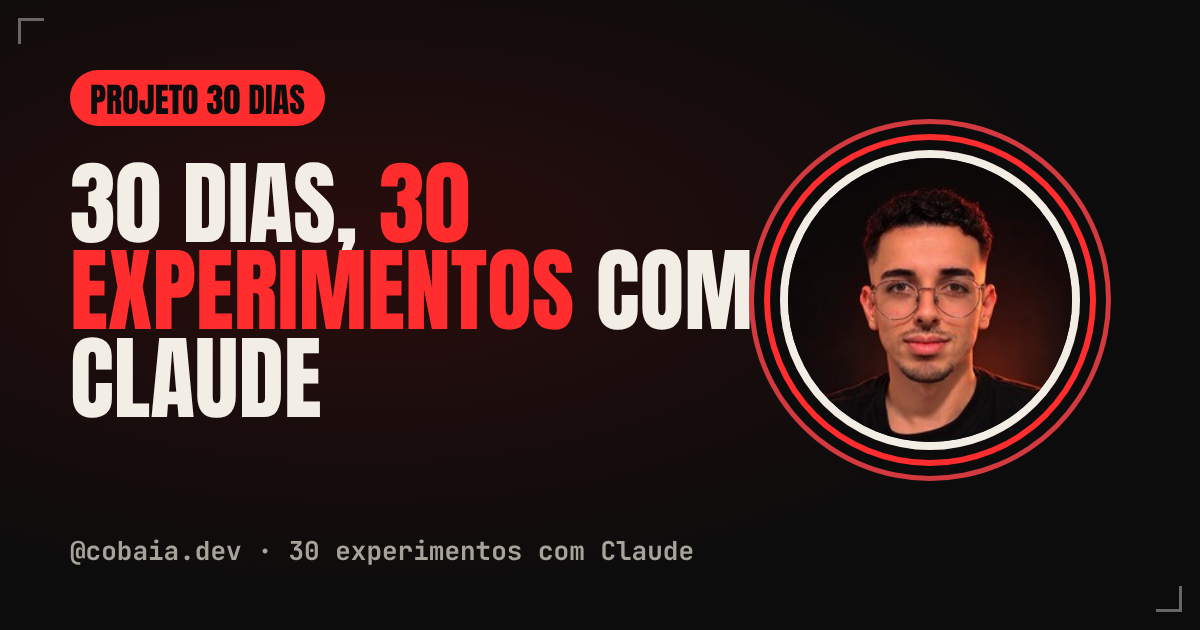
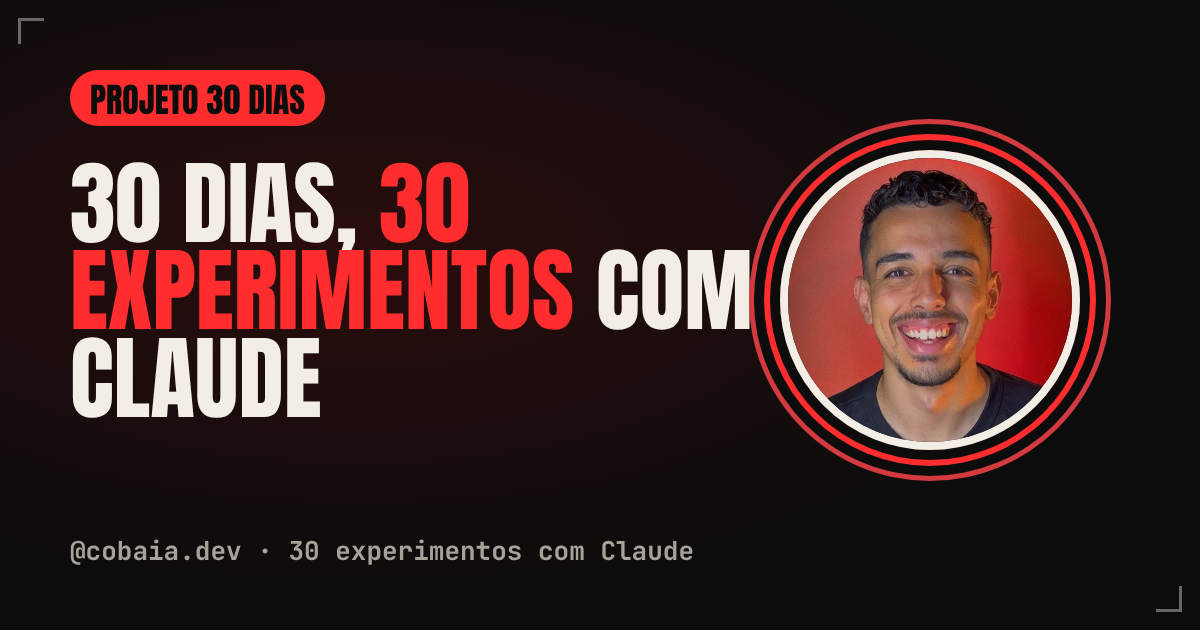
Foto de perfil nova e contagem no topo da /notebook (#36)
* Notebook Ressuscitado: landing nova em /notebook, guia pago por fases e venda pela Kiwify

- /notebook vira landing de vendas (guia R$ 37,90 e suporte R$ 97,90 até 30/11)
- /notebook/guia: 44 telas em 8 fases, trilhas Leve (Xfce) e Mac (KDE Plasma)
- produtos notebook e notebook-suporte; 10 primeiros do suporte levam o guia
- /api/vagas, botão de WhatsApp na área do suporte

Claude-Session: https://claude.ai/code/session_018kX4KQYKFVyteA3d2GckNv

* Notebook: página de vendas v2 com vídeos reais, suporte reaproveitado com botão do WhatsApp

Claude-Session: https://claude.ai/code/session_018kX4KQYKFVyteA3d2GckNv

* Notebook: preço em parcelas, notebook novo riscado e depois do guia, link do suporte

Claude-Session: https://claude.ai/code/session_018kX4KQYKFVyteA3d2GckNv

* Notebook: checkout do guia e nome do produto sem a ferramenta

Claude-Session: https://claude.ai/code/session_018kX4KQYKFVyteA3d2GckNv

* Notebook: suporte do notebook vira produto próprio (notebook-suporte)

Claude-Session: https://claude.ai/code/session_018kX4KQYKFVyteA3d2GckNv

* Notebook: páginas de obrigado do guia e do suporte com WhatsApp

Claude-Session: https://claude.ai/code/session_018kX4KQYKFVyteA3d2GckNv

* Notebook: parcelas reais do checkout (guia 3x 13,53, suporte 12x 10,13)

Claude-Session: https://claude.ai/code/session_018kX4KQYKFVyteA3d2GckNv

* Notebook: views reais (600 mil, 23 mil comentários) e medidor ao vivo da página
[…]

Changed region(s): [[0.6475, 0.2413, 0.8942, 0.7238]]

diff --git a/30-dias/index.html b/30-dias/index.html
@@ -22,7 +22,7 @@
 <body>
 <div class="bg" aria-hidden="true"><i></i><i></i><i></i></div>
 <header class="top"><div class="bar glass">
-  <a class="brand" href="../30-dias/"><span class="pf"><img src="../assets/img/avatar.jpg" alt="" width="34" height="34"></span><span>@cobaia.dev</span></a>
+  <a class="brand" href="../30-dias/"><span class="pf"><img src="../assets/img/luis.jpg" alt="" width="34" height="34"></span><span>@cobaia.dev</span></a>
   <div class="bar-r"><div class="bar-soc"><a class="soc" href="https://www.tiktok.com/@cobaia.dev" target="_blank" rel="noopener" aria-label="TikTok"><svg class="ico" viewBox="0 0 24 24" fill="currentColor" aria-hidden="true"><path d="M16.6 5.82A4.28 4.28 0 0 1 15.54 3h-3.09v12.4a2.59 2.59 0 0 1-2.59 2.5c-1.42 0-2.6-1.16-2.6-2.6 0-1.72 1.66-3.01 3.37-2.48V9.66c-3.45-.46-6.47 2.22-6.47 5.64 0 3.33 2.76 5.7 5.69 5.7 3.14 0 5.69-2.55 5.69-5.7V9.01a7.35 7.35 0 0 0 4.3 1.38V7.3s-1.88.09-3.24-1.48z"/></svg></a><a class="soc" href="https://www.youtube.com/@cobaia.dev1" target="_blank" rel="noopener" aria-label="YouTube"><svg class="ico" viewBox="0 0 24 24" fill="currentColor" aria-hidden="true"><path d="M21.6 7.2a2.5 2.5 0 0 0-1.76-1.77C18.27 5 12 5 12 5s-6.27 0-7.84.43A2.5 2.5 0 0 0 2.4 7.2 26 26 0 0 0 2 12a26 26 0 0 0 .4 4.8 2.5 2.5 0 0 0 1.76 1.77C5.73 19 12 19 12 19s6.27 0 7.84-.43a2.5 2.5 0 0 0 1.76-1.77A26 26 0 0 0 22 12a26 26 0 0 0-.4-4.8zM10 15V9l5.2 3L10 15z"/></svg></a></div><button class="cal-btn" type="button" data-open-cal aria-haspopup="dialog" aria-controls="cal"><i class="dot"></i>30 dias</button></div>
 </div></header>
 <main class="wrap">
@@ -60,7 +60,7 @@
   <p class="note"><span data-done>13</span> de 30 liberados</p>
 <div class="grid30"><a class="dcard glass rv" href="../dia-01/" data-lock-day="1"><div class="im"><img src="../assets/img/capa-dia01.jpg" alt="Capa do vídeo do Dia 1" loading="lazy" width="540" height="960"></div><div class="b"><span class="n" data-when="DIA 01 · libera às 12h">DIA 01</span><span class="t">Ninguém editou esse vídeo</span></div></a><a class="dcard glass rv" href="../jogo/" data-lock-day="2"><span class="k">JOGO</span><div class="im"><img src="../assets/img/capa-dia02.jpg" alt="Capa do vídeo do Dia 2" loading="lazy" width="540" height="960"></div><div class="b"><span class="n" data-when="DIA 02 · libera às 12h">DIA 02</span><span class="t">Um jogo sem código</span></div></a><a class="dcard glass rv" href="../skill/" data-lock-day="3"><span class="k">SKILL</span><div class="im"><img src="../assets/img/capa-dia03.jpg" alt="Capa do vídeo do Dia 3" loading="lazy" width="540" height="960"></div><div class="b"><span class="n" data-when="DIA 03 · libera às 12h">DIA 03</span><span class="t">Skill é a receita da vó</span></div></a><a class="dcard glass rv" href="../limpar/" data-lock-day="4"><span class="k">LIMPAR</span><div class="im"><img src="../assets/img/capa-dia04.jpg" alt="Capa do vídeo do Dia 4" loading="lazy" width="540" height="960"></div><div class="b"><span class="n" data-when="DIA 04 · libera às 12h">DIA 04</span><span class="t">19 mil e-mails limpos</span></div></a><a class="dcard glass rv" href="../mcp/" data-lock-day="5"><span class="k">MCP</span><div class="im"><img src="../assets/img/capa-dia05.jpg" alt="Capa do vídeo do Dia 5" loading="lazy" width="540" height="960"></div><div class="b"><span class="n" data-when="DIA 05 · libera às 12h">DIA 05</span><span class="t">O Claude montou meu post no Canva</span></div></a><a class="dcard glass rv" href="../professor/" data-lock-day="9"><span class="k">PROFESSOR</span><div class="im"><img src="../assets/img/capa-dia09.jpg" alt="Capa do vídeo do Dia 9" loading="lazy" width="540" height="960"></div><div class="b"><span class="n" data-when="DIA 09 · libera às 12h">DIA 09</span><span class="t">O Claude virou meu professor particular</span></div></a><a class="dcard glass rv" href="../wifi/" data-lock-day="10"><span class="k">WIFI</span><div class="im"><img src="../assets/img/capa-dia10.jpg" alt="Capa do vídeo do Dia 10" loading="lazy" width="540" height="960"></div><div class="b"><span class="n" data-when="DIA 10 · libera às 12h">DIA 10</span><span class="t">O Claude achou o ladrão do meu Wi-Fi</span></div></a><a class="dcard glass rv" href="../gta/" data-lock-day="11"><span class="k">GTA</span><div class="im"><img src="../assets/img/capa-dia11.jpg" alt="Capa do vídeo do Dia 11" loading="lazy" width="540" height="960"></div><div class="b"><span class="n" data-when="DIA 11 · libera às 12h">DIA 11</span><span class="t">Uma live de GTA VI vira 5 cortes</span></div></a><a class="dcard glass rv" href="../omniroute/" data-lock-day="12"><span class="k">CLAUDE</span><div class="im"><img src="../assets/img/capa-dia12.jpg" alt="Capa do vídeo do Dia 12" loading="lazy" width="540" height="960"></div><div class="b"><span class="n" data-when="DIA 12 · libera às 12h">DIA 12</span><span class="t">O Claude Code ligado em 352 IAs</span></div></a><a class="dcard glass rv" href="../humano/" data-lock-day="13"><span class="k">HUMANO</span><div class="im"><img src="../assets/img/capa-dia13.jpg" alt="Capa do vídeo do Dia 13" loading="lazy" width="540" height="960"></div><div class="b"><span class="n" data-when="DIA 13 · libera às 12h">DIA 13</span><span class="t">O Claude escreve sem cara de IA</span></div></a><a class="dcard glass rv" href="../planilha/" data-lock-day="14"><span class="k">PLANILHA</span><div class="im"><img src="../assets/img/capa-dia14.jpg" alt="Capa do vídeo do Dia 14" loading="lazy" width="540" height="960"></div><div class="b"><span class="n" data-when="DIA 14 · libera às 12h">DIA 14</span><span class="t">O Claude mostrou pra onde vai o salário</span></div></a></div></section>
 <div class="cta rv">
-  <span class="pf"><img src="../assets/img/avatar.jpg" alt="Foto de perfil do @cobaia.dev" width="96" height="96"></span>
+  <span class="pf"><img src="../assets/img/luis.jpg" alt="Foto de perfil do @cobaia.dev" width="96" height="96"></span>
   <h2>30 dias, <em>30 experimentos</em></h2>
   <p class="lede">Eu testo antes de você. Segue pra não perder o próximo.</p>
   <a class="stamp" href="https://www.instagram.com/cobaia.dev/" target="_blank" rel="noopener">@COBAIA.DEV</a>

diff --git a/jogo/index.html b/jogo/index.html
@@ -22,7 +22,7 @@
 <body>
 <div class="bg" aria-hidden="true"><i></i><i></i><i></i></div>
 <header class="top"><div class="bar glass">
-  <a class="brand" href="../30-dias/"><span class="pf"><img src="../assets/img/avatar.jpg" alt="" width="34" height="34"></span><span>@cobaia.dev</span></a>
+  <a class="brand" href="../30-dias/"><span class="pf"><img src="../assets/img/luis.jpg" alt="" width="34" height="34"></span><span>@cobaia.dev</span></a>
   <div class="bar-r"><div class="bar-soc"><a class="soc" href="https://www.tiktok.com/@cobaia.dev" target="_blank" rel="noopener" aria-label="TikTok"><svg class="ico" viewBox="0 0 24 24" fill="currentColor" aria-hidden="true"><path d="M16.6 5.82A4.28 4.28 0 0 1 15.54 3h-3.09v12.4a2.59 2.59 0 0 1-2.59 2.5c-1.42 0-2.6-1.16-2.6-2.6 0-1.72 1.66-3.01 3.37-2.48V9.66c-3.45-.46-6.47 2.22-6.47 5.64 0 3.33 2.76 5.7 5.69 5.7 3.14 0 5.69-2.55 5.69-5.7V9.01a7.35 7.35 0 0 0 4.3 1.38V7.3s-1.88.09-3.24-1.48z"/></svg></a><a class="soc" href="https://www.youtube.com/@cobaia.dev1" target="_blank" rel="noopener" aria-label="YouTube"><svg class="ico" viewBox="0 0 24 24" fill="currentColor" aria-hidden="true"><path d="M21.6 7.2a2.5 2.5 0 0 0-1.76-1.77C18.27 5 12 5 12 5s-6.27 0-7.84.43A2.5 2.5 0 0 0 2.4 7.2 26 26 0 0 0 2 12a26 26 0 0 0 .4 4.8 2.5 2.5 0 0 0 1.76 1.77C5.73 19 12 19 12 19s6.27 0 7.84-.43a2.5 2.5 0 0 0 1.76-1.77A26 26 0 0 0 22 12a26 26 0 0 0-.4-4.8zM10 15V9l5.2 3L10 15z"/></svg></a></div><button class="cal-btn" type="button" data-open-cal aria-haspopup="dialog" aria-controls="cal"><i class="dot"></i>30 dias</button></div>
 </div></header>
 <main class="wrap">
@@ -151,7 +151,7 @@ p.addEventListener('input',upd);o.addEventListener('input',upd);
 document.querySelectorAll('.chips button').forEach(function(b){b.addEventListener('click',function(){p.value=b.getAttribute('data-p');o.value=b.getAttribute('data-o');upd()})});})();
 </script>
 <section class="rv" aria-labelledby="nx"><p class="eyebrow">continua a série</p><h2 id="nx">Os outros experimentos</h2><div class="next"><a class="card glass" href="../dia-01/"><span class="d">← DIA 01</span><div class="t">Ninguém editou esse vídeo</div><p>Como o Claude editou um vídeo inteiro a partir de um áudio cru: cortes, cenas, legenda, música e efeitos.</p></a><a class="card glass red" href="../skill/" data-lock-day="3"><span class="d" data-when="DIA 03 · libera às 12h">DIA 03 · palavra SKILL →</span><div class="t">Skill é a receita da vó</div><p>O manual pra criar a sua primeira skill no Claude e ensinar uma tarefa do seu jeito.</p></a></div></section><div class="cta rv">
-  <span class="pf"><img src="../assets/img/avatar.jpg" alt="Foto de perfil do @cobaia.dev" width="96" height="96"></span>
+  <span class="pf"><img src="../assets/img/luis.jpg" alt="Foto de perfil do @cobaia.dev" width="96" height="96"></span>
   <h2>30 dias, <em>30 experimentos</em></h2>
   <p class="lede">Eu testo antes de você. Segue pra não perder o próximo.</p>
   <a class="stamp" href="https://www.instagram.com/cobaia.dev/" target="_blank" rel="noopener">@COBAIA.DEV</a>

diff --git a/humano/index.html b/humano/index.html
@@ -22,7 +22,7 @@
 <body>
 <div class="bg" aria-hidden="true"><i></i><i></i><i></i></div>
 <header class="top"><div class="bar glass">
-  <a class="brand" href="../30-dias/"><span class="pf"><img src="../assets/img/avatar.jpg" alt="" width="34" height="34"></span><span>@cobaia.dev</span></a>
+  <a class="brand" href="../30-dias/"><span class="pf"><img src="../assets/img/luis.jpg" alt="" width="34" height="34"></span><span>@cobaia.dev</span></a>
   <div class="bar-r"><div class="bar-soc"><a class="soc" href="https://www.tiktok.com/@cobaia.dev" target="_blank" rel="noopener" aria-label="TikTok"><svg class="ico" viewBox="0 0 24 24" fill="currentColor" aria-hidden="true"><path d="M16.6 5.82A4.28 4.28 0 0 1 15.54 3h-3.09v12.4a2.59 2.59 0 0 1-2.59 2.5c-1.42 0-2.6-1.16-2.6-2.6 0-1.72 1.66-3.01 3.37-2.48V9.66c-3.45-.46-6.47 2.22-6.47 5.64 0 3.33 2.76 5.7 5.69 5.7 3.14 0 5.69-2.55 5.69-5.7V9.01a7.35 7.35 0 0 0 4.3 1.38V7.3s-1.88.09-3.24-1.48z"/></svg></a><a class="soc" href="https://www.youtube.com/@cobaia.dev1" target="_blank" rel="noopener" aria-label="YouTube"><svg class="ico" viewBox="0 0 24 24" fill="currentColor" aria-hidden="true"><path d="M21.6 7.2a2.5 2.5 0 0 0-1.76-1.77C18.27 5 12 5 12 5s-6.27 0-7.84.43A2.5 2.5 0 0 0 2.4 7.2 26 26 0 0 0 2 12a26 26 0 0 0 .4 4.8 2.5 2.5 0 0 0 1.76 1.77C5.73 19 12 19 12 19s6.27 0 7.84-.43a2.5 2.5 0 0 0 1.76-1.77A26 26 0 0 0 22 12a26 26 0 0 0-.4-4.8zM10 15V9l5.2 3L10 15z"/></svg></a></div><button class="cal-btn" type="button" data-open-cal aria-haspopup="dialog" aria-controls="cal"><i class="dot"></i>30 dias</button></div>
 </div></header>
 <main class="wrap">
@@ -320,7 +320,7 @@ CONSCIÊNCIA DE CONTEXTO HUMANO: quando fizer sentido, reconheça a situação o
   </div>
 </section>
 <section class="rv" aria-labelledby="nx"><p class="eyebrow">continua a série</p><h2 id="nx">Os outros experimentos</h2><div class="next"><a class="card glass" href="../omniroute/"><span class="d">← DIA 12 · palavra CLAUDE</span><div class="t">O Claude Code ligado em 352 IAs</div><p>O guia gratuito do OmniRoute: instalar do zero, ligar as IAs grátis no Claude Code e os limites que ninguém te conta.</p></a><a class="card glass red" href="../planilha/" data-lock-day="14"><span class="d" data-when="DIA 14 · libera às 12h">DIA 14 · palavra PLANILHA →</span><div class="t">O Claude mostrou pra onde vai o salário</div><p>O pedido exato pra transformar a fatura do cartão numa planilha com gastos por categoria, plano pra sair das dívidas, reserva de emergência e as assinaturas esquecidas.</p></a></div></section><div class="cta rv">
-  <span class="pf"><img src="../assets/img/avatar.jpg" alt="Foto de perfil do @cobaia.dev" width="96" height="96"></span>
+  <span class="pf"><img src="../assets/img/luis.jpg" alt="Foto de perfil do @cobaia.dev" width="96" height="96"></span>
   <h2>30 dias, <em>30 experimentos</em></h2>
   <p class="lede">Eu testo antes de você. Segue pra não perder o próximo.</p>
   <a class="stamp" href="https://www.instagram.com/cobaia.dev/" target="_blank" rel="noopener">@COBAIA.DEV</a>

diff --git a/skill/index.html b/skill/index.html
@@ -22,7 +22,7 @@
 <body>
 <div class="bg" aria-hidden="true"><i></i><i></i><i></i></div>
 <header class="top"><div class="bar glass">
-  <a class="brand" href="../30-dias/"><span class="pf"><img src="../assets/img/avatar.jpg" alt="" width="34" height="34"></span><span>@cobaia.dev</span></a>
+  <a class="brand" href="../30-dias/"><span class="pf"><img src="../assets/img/luis.jpg" alt="" width="34" height="34"></span><span>@cobaia.dev</span></a>
   <div class="bar-r"><div class="bar-soc"><a class="soc" href="https://www.tiktok.com/@cobaia.dev" target="_blank" rel="noopener" aria-label="TikTok"><svg class="ico" viewBox="0 0 24 24" fill="currentColor" aria-hidden="true"><path d="M16.6 5.82A4.28 4.28 0 0 1 15.54 3h-3.09v12.4a2.59 2.59 0 0 1-2.59 2.5c-1.42 0-2.6-1.16-2.6-2.6 0-1.72 1.66-3.01 3.37-2.48V9.66c-3.45-.46-6.47 2.22-6.47 5.64 0 3.33 2.76 5.7 5.69 5.7 3.14 0 5.69-2.55 5.69-5.7V9.01a7.35 7.35 0 0 0 4.3 1.38V7.3s-1.88.09-3.24-1.48z"/></svg></a><a class="soc" href="https://www.youtube.com/@cobaia.dev1" target="_blank" rel="noopener" aria-label="YouTube"><svg class="ico" viewBox="0 0 24 24" fill="currentColor" aria-hidden="true"><path d="M21.6 7.2a2.5 2.5 0 0 0-1.76-1.77C18.27 5 12 5 12 5s-6.27 0-7.84.43A2.5 2.5 0 0 0 2.4 7.2 26 26 0 0 0 2 12a26 26 0 0 0 .4 4.8 2.5 2.5 0 0 0 1.76 1.77C5.73 19 12 19 12 19s6.27 0 7.84-.43a2.5 2.5 0 0 0 1.76-1.77A26 26 0 0 0 22 12a26 26 0 0 0-.4-4.8zM10 15V9l5.2 3L10 15z"/></svg></a></div><button class="cal-btn" type="button" data-open-cal aria-haspopup="dialog" aria-controls="cal"><i class="dot"></i>30 dias</button></div>
 </div></header>
 <main class="wrap">
@@ -140,7 +140,7 @@ bs.forEach(function(o){o.setAttribute('aria-pressed',o===b?'true':'false')});
 sh.querySelectorAll('.rec').forEach(function(r){r.classList.toggle('on',r.getAttribute('data-k')===k)});cap.textContent=T[k];})});})();
 </script>
 <section class="rv" aria-labelledby="nx"><p class="eyebrow">continua a série</p><h2 id="nx">Os outros experimentos</h2><div class="next"><a class="card glass" href="../jogo/"><span class="d">← DIA 02 · palavra JOGO</span><div class="t">Um jogo sem código</div><p>Passo a passo grátis pra criar o seu primeiro jogo com o Claude, sem escrever uma linha de código.</p></a><a class="card glass red" href="../limpar/" data-lock-day="4"><span class="d" data-when="DIA 04 · libera às 12h">DIA 04 · palavra LIMPAR →</span><div class="t">19 mil e-mails limpos</div><p>Os dois prompts pra limpar a caixa de entrada e receber o resumo da noite com o Claude no Gmail e na Agenda.</p></a></div></section><div class="cta rv">
-  <span class="pf"><img src="../assets/img/avatar.jpg" alt="Foto de perfil do @cobaia.dev" width="96" height="96"></span>
+  <span class="pf"><img src="../assets/img/luis.jpg" alt="Foto de perfil do @cobaia.dev" width="96" height="96"></span>
   <h2>30 dias, <em>30 experimentos</em></h2>
   <p class="lede">Eu testo antes de você. Segue pra não perder o próximo.</p>
   <a class="stamp" href="https://www.instagram.com/cobaia.dev/" target="_blank" rel="noopener">@COBAIA.DEV</a>

diff --git a/professor/index.html b/professor/index.html
@@ -22,7 +22,7 @@
 <body>
 <div class="bg" aria-hidden="true"><i></i><i></i><i></i></div>
 <header class="top"><div class="bar glass">
-  <a class="brand" href="../30-dias/"><span class="pf"><img src="../assets/img/avatar.jpg" alt="" width="34" height="34"></span><span>@cobaia.dev</span></a>
+  <a class="brand" href="../30-dias/"><span class="pf"><img src="../assets/img/luis.jpg" alt="" width="34" height="34"></span><span>@cobaia.dev</span></a>
   <div class="bar-r"><div class="bar-soc"><a class="soc" href="https://www.tiktok.com/@cobaia.dev" target="_blank" rel="noopener" aria-label="TikTok"><svg class="ico" viewBox="0 0 24 24" fill="currentColor" aria-hidden="true"><path d="M16.6 5.82A4.28 4.28 0 0 1 15.54 3h-3.09v12.4a2.59 2.59 0 0 1-2.59 2.5c-1.42 0-2.6-1.16-2.6-2.6 0-1.72 1.66-3.01 3.37-2.48V9.66c-3.45-.46-6.47 2.22-6.47 5.64 0 3.33 2.76 5.7 5.69 5.7 3.14 0 5.69-2.55 5.69-5.7V9.01a7.35 7.35 0 0 0 4.3 1.38V7.3s-1.88.09-3.24-1.48z"/></svg></a><a class="soc" href="https://www.youtube.com/@cobaia.dev1" target="_blank" rel="noopener" aria-label="YouTube"><svg class="ico" viewBox="0 0 24 24" fill="currentColor" aria-hidden="true"><path d="M21.6 7.2a2.5 2.5 0 0 0-1.76-1.77C18.27 5 12 5 12 5s-6.27 0-7.84.43A2.5 2.5 0 0 0 2.4 7.2 26 26 0 0 0 2 12a26 26 0 0 0 .4 4.8 2.5 2.5 0 0 0 1.76 1.77C5.73 19 12 19 12 19s6.27 0 7.84-.43a2.5 2.5 0 0 0 1.76-1.77A26 26 0 0 0 22 12a26 26 0 0 0-.4-4.8zM10 15V9l5.2 3L10 15z"/></svg></a></div><button class="cal-btn" type="button" data-open-cal aria-haspopup="dialog" aria-controls="cal"><i class="dot"></i>30 dias</button></div>
 </div></header>
 <main class="wrap">
@@ -154,7 +154,7 @@
   </div>
 </section>
 <section class="rv" aria-labelledby="nx"><p class="eyebrow">continua a série</p><h2 id="nx">Os outros experimentos</h2><div class="next"><a class="card glass" href="../tablet/"><span class="d">← DIA 08 · palavra TABLET</span><div class="t">Ressuscitei um tablet abandonado</div><p>O mapa grátis pra ressuscitar o seu tablet velho e o passo a passo feito pro seu modelo, até o limite que ele aguenta.</p></a><a class="card glass red" href="../wifi/" data-lock-day="10"><span class="d" data-when="DIA 10 · libera às 12h">DIA 10 · palavra WIFI →</span><div class="t">O Claude achou o ladrão do meu Wi-Fi</div><p>O pedido exato pro Claude Code investigar o seu Wi-Fi lento (velocidade, consumo escondido e canal do vizinho) e o passo a passo pra corrigir.</p></a></div></section><div class="cta rv">
-  <span class="pf"><img src="../assets/img/avatar.jpg" alt="Foto de perfil do @cobaia.dev" width="96" height="96"></span>
+  <span class="pf"><img src="../assets/img/luis.jpg" alt="Foto de perfil do @cobaia.dev" width="96" height="96"></span>
   <h2>30 dias, <em>30 experimentos</em></h2>
   <p class="lede">Eu testo antes de você. Segue pra não perder o próximo.</p>
   <a class="stamp" href="https://www.instagram.com/cobaia.dev/" target="_blank" rel="noopener">@COBAIA.DEV</a>

diff --git a/mcp/index.html b/mcp/index.html
@@ -22,7 +22,7 @@
 <body>
 <div class="bg" aria-hidden="true"><i></i><i></i><i></i></div>
 <header class="top"><div class="bar glass">
-  <a class="brand" href="../30-dias/"><span class="pf"><img src="../assets/img/avatar.jpg" alt="" width="34" height="34"></span><span>@cobaia.dev</span></a>
+  <a class="brand" href="../30-dias/"><span class="pf"><img src="../assets/img/luis.jpg" alt="" width="34" height="34"></span><span>@cobaia.dev</span></a>
   <div class="bar-r"><div class="bar-soc"><a class="soc" href="https://www.tiktok.com/@cobaia.dev" target="_blank" rel="noopener" aria-label="TikTok"><svg class="ico" viewBox="0 0 24 24" fill="currentColor" aria-hidden="true"><path d="M16.6 5.82A4.28 4.28 0 0 1 15.54 3h-3.09v12.4a2.59 2.59 0 0 1-2.59 2.5c-1.42 0-2.6-1.16-2.6-2.6 0-1.72 1.66-3.01 3.37-2.48V9.66c-3.45-.46-6.47 2.22-6.47 5.64 0 3.33 2.76 5.7 5.69 5.7 3.14 0 5.69-2.55 5.69-5.7V9.01a7.35 7.35 0 0 0 4.3 1.38V7.3s-1.88.09-3.24-1.48z"/></svg></a><a class="soc" href="https://www.youtube.com/@cobaia.dev1" target="_blank" rel="noopener" aria-label="YouTube"><svg class="ico" viewBox="0 0 24 24" fill="currentColor" aria-hidden="true"><path d="M21.6 7.2a2.5 2.5 0 0 0-1.76-1.77C18.27 5 12 5 12 5s-6.27 0-7.84.43A2.5 2.5 0 0 0 2.4 7.2 26 26 0 0 0 2 12a26 26 0 0 0 .4 4.8 2.5 2.5 0 0 0 1.76 1.77C5.73 19 12 19 12 19s6.27 0 7.84-.43a2.5 2.5 0 0 0 1.76-1.77A26 26 0 0 0 22 12a26 26 0 0 0-.4-4.8zM10 15V9l5.2 3L10 15z"/></svg></a></div><button class="cal-btn" type="button" data-open-cal aria-haspopup="dialog" aria-controls="cal"><i class="dot"></i>30 dias</button></div>
 </div></header>
 <main class="wrap">
@@ -211,7 +211,7 @@
 })();
 </script>
 <section class="rv" aria-labelledby="nx"><p class="eyebrow">continua a série</p><h2 id="nx">Os outros experimentos</h2><div class="next"><a class="card glass" href="../limpar/"><span class="d">← DIA 04 · palavra LIMPAR</span><div class="t">19 mil e-mails limpos</div><p>Os dois prompts pra limpar a caixa de entrada e receber o resumo da noite com o Claude no Gmail e na Agenda.</p></a><a class="card glass red" href="../notebook/" data-lock-day="6"><span class="d" data-when="DIA 06 · libera às 12h">DIA 06 · palavra NOTEBOOK →</span><div class="t">Ressuscitei um notebook velho com o Claude</div><p>O guia pra reviver um notebook velho com um Debian 13, do pendrive à interface, com os comandos pra fazer à mão e os pedidos prontos pro Claude Code.</p></a></div></section><div class="cta rv">
-  <span class="pf"><img src="../assets/img/avatar.jpg" alt="Foto de perfil do @cobaia.dev" width="96" height="96"></span>
+  <span class="pf"><img src="../assets/img/luis.jpg" alt="Foto de perfil do @cobaia.dev" width="96" height="96"></span>
   <h2>30 dias, <em>30 experimentos</em></h2>
   <p class="lede">Eu testo antes de você. Segue pra não perder o próximo.</p>
   <a class="stamp" href="https://www.instagram.com/cobaia.dev/" target="_blank" rel="noopener">@COBAIA.DEV</a>

diff --git a/planilha/index.html b/planilha/index.html
@@ -22,7 +22,7 @@
 <body>
 <div class="bg" aria-hidden="true"><i></i><i></i><i></i></div>
 <header class="top"><div class="bar glass">
-  <a class="brand" href="../30-dias/"><span class="pf"><img src="../assets/img/avatar.jpg" alt="" width="34" height="34"></span><span>@cobaia.dev</span></a>
+  <a class="brand" href="../30-dias/"><span class="pf"><img src="../assets/img/luis.jpg" alt="" width="34" height="34"></span><span>@cobaia.dev</span></a>
   <div class="bar-r"><div class="bar-soc"><a class="soc" href="https://www.tiktok.com/@cobaia.dev" target="_blank" rel="noopener" aria-label="TikTok"><svg class="ico" viewBox="0 0 24 24" fill="currentColor" aria-hidden="true"><path d="M16.6 5.82A4.28 4.28 0 0 1 15.54 3h-3.09v12.4a2.59 2.59 0 0 1-2.59 2.5c-1.42 0-2.6-1.16-2.6-2.6 0-1.72 1.66-3.01 3.37-2.48V9.66c-3.45-.46-6.47 2.22-6.47 5.64 0 3.33 2.76 5.7 5.69 5.7 3.14 0 5.69-2.55 5.69-5.7V9.01a7.35 7.35 0 0 0 4.3 1.38V7.3s-1.88.09-3.24-1.48z"/></svg></a><a class="soc" href="https://www.youtube.com/@cobaia.dev1" target="_blank" rel="noopener" aria-label="YouTube"><svg class="ico" viewBox="0 0 24 24" fill="currentColor" aria-hidden="true"><path d="M21.6 7.2a2.5 2.5 0 0 0-1.76-1.77C18.27 5 12 5 12 5s-6.27 0-7.84.43A2.5 2.5 0 0 0 2.4 7.2 26 26 0 0 0 2 12a26 26 0 0 0 .4 4.8 2.5 2.5 0 0 0 1.76 1.77C5.73 19 12 19 12 19s6.27 0 7.84-.43a2.5 2.5 0 0 0 1.76-1.77A26 26 0 0 0 22 12a26 26 0 0 0-.4-4.8zM10 15V9l5.2 3L10 15z"/></svg></a></div><button class="cal-btn" type="button" data-open-cal aria-haspopup="dialog" aria-controls="cal"><i class="dot"></i>30 dias</button></div>
 </div></header>
 <main class="wrap">
@@ -142,7 +142,7 @@ No fim, me diga em 3 frases simples onde eu mais posso economizar.</pre></div>
   </div>
 </section>
 <section class="rv" aria-labelledby="nx"><p class="eyebrow">continua a série</p><h2 id="nx">Os outros experimentos</h2><div class="next"><a class="card glass" href="../humano/"><span class="d">← DIA 13 · palavra HUMANO</span><div class="t">O Claude escreve sem cara de IA</div><p>O guia gratuito do Anti-Robô: o pedido que levanta os padrões de texto de IA, a skill que guarda as regras e os pedidos prontos pra escrever como gente.</p></a><div class="card glass red locked"><span class="d">DIA 15 · em breve</span><div class="t">Próximo experimento</div><p>Sai às 12h. Segue o @cobaia.dev pra ver primeiro.</p></div></div></section><div class="cta rv">
-  <span class="pf"><img src="../assets/img/avatar.jpg" alt="Foto de perfil do @cobaia.dev" width="96" height="96"></span>
+  <span class="pf"><img src="../assets/img/luis.jpg" alt="Foto de perfil do @cobaia.dev" width="96" height="96"></span>
   <h2>30 dias, <em>30 experimentos</em></h2>
   <p class="lede">Eu testo antes de você. Segue pra não perder o próximo.</p>
   <a class="stamp" href="https://www.instagram.com/cobaia.dev/" target="_blank" rel="noopener">@COBAIA.DEV</a>

diff --git a/dia-01/index.html b/dia-01/index.html
@@ -22,7 +22,7 @@
 <body>
 <div class="bg" aria-hidden="true"><i></i><i></i><i></i></div>
 <header class="top"><div class="bar glass">
-  <a class="brand" href="../30-dias/"><span class="pf"><img src="../assets/img/avatar.jpg" alt="" width="34" height="34"></span><span>@cobaia.dev</span></a>
+  <a class="brand" href="../30-dias/"><span class="pf"><img src="../assets/img/luis.jpg" alt="" width="34" height="34"></span><span>@cobaia.dev</span></a>
   <div class="bar-r"><div class="bar-soc"><a class="soc" href="https://www.tiktok.com/@cobaia.dev" target="_blank" rel="noopener" aria-label="TikTok"><svg class="ico" viewBox="0 0 24 24" fill="currentColor" aria-hidden="true"><path d="M16.6 5.82A4.28 4.28 0 0 1 15.54 3h-3.09v12.4a2.59 2.59 0 0 1-2.59 2.5c-1.42 0-2.6-1.16-2.6-2.6 0-1.72 1.66-3.01 3.37-2.48V9.66c-3.45-.46-6.47 2.22-6.47 5.64 0 3.33 2.76 5.7 5.69 5.7 3.14 0 5.69-2.55 5.69-5.7V9.01a7.35 7.35 0 0 0 4.3 1.38V7.3s-1.88.09-3.24-1.48z"/></svg></a><a class="soc" href="https://www.youtube.com/@cobaia.dev1" target="_blank" rel="noopener" aria-label="YouTube"><svg class="ico" viewBox="0 0 24 24" fill="currentColor" aria-hidden="true"><path d="M21.6 7.2a2.5 2.5 0 0 0-1.76-1.77C18.27 5 12 5 12 5s-6.27 0-7.84.43A2.5 2.5 0 0 0 2.4 7.2 26 26 0 0 0 2 12a26 26 0 0 0 .4 4.8 2.5 2.5 0 0 0 1.76 1.77C5.73 19 12 19 12 19s6.27 0 7.84-.43a2.5 2.5 0 0 0 1.76-1.77A26 26 0 0 0 22 12a26 26 0 0 0-.4-4.8zM10 15V9l5.2 3L10 15z"/></svg></a></div><button class="cal-btn" type="button" data-open-cal aria-haspopup="dialog" aria-controls="cal"><i class="dot"></i>30 dias</button></div>
 </div></header>
 <main class="wrap">
@@ -119,7 +119,7 @@ for(var i=0;i<66;i++){var sil=s.indexOf(i)>-1,v=sil?8+Math.random()*10:22+Math.a
 w.innerHTML=h;})();
 </script>
 <section class="rv" aria-labelledby="nx"><p class="eyebrow">continua a série</p><h2 id="nx">Os outros experimentos</h2><div class="next"><a class="card glass" href="../30-dias/"><span class="d">← TODOS OS DIAS</span><div class="t">O calendário</div><p>Veja os experimentos liberados até agora.</p></a><a class="card glass red" href="../jogo/" data-lock-day="2"><span class="d" data-when="DIA 02 · libera às 12h">DIA 02 · palavra JOGO →</span><div class="t">Um jogo sem código</div><p>Passo a passo grátis pra criar o seu primeiro jogo com o Claude, sem escrever uma linha de código.</p></a></div></section><div class="cta rv">
-  <span class="pf"><img src="../assets/img/avatar.jpg" alt="Foto de perfil do @cobaia.dev" width="96" height="96"></span>
+  <span class="pf"><img src="../assets/img/luis.jpg" alt="Foto de perfil do @cobaia.dev" width="96" height="96"></span>
   <h2>30 dias, <em>30 experimentos</em></h2>
   <p class="lede">Eu testo antes de você. Segue pra não perder o próximo.</p>
   <a class="stamp" href="https://www.instagram.com/cobaia.dev/" target="_blank" rel="noopener">@COBAIA.DEV</a>

diff --git a/omniroute/index.html b/omniroute/index.html
@@ -22,7 +22,7 @@
 <body>
 <div class="bg" aria-hidden="true"><i></i><i></i><i></i></div>
 <header class="top"><div class="bar glass">
-  <a class="brand" href="../30-dias/"><span class="pf"><img src="../assets/img/avatar.jpg" alt="" width="34" height="34"></span><span>@cobaia.dev</span></a>
+  <a class="brand" href="../30-dias/"><span class="pf"><img src="../assets/img/luis.jpg" alt="" width="34" height="34"></span><span>@cobaia.dev</span></a>
   <div class="bar-r"><div class="bar-soc"><a class="soc" href="https://www.tiktok.com/@cobaia.dev" target="_blank" rel="noopener" aria-label="TikTok"><svg class="ico" viewBox="0 0 24 24" fill="currentColor" aria-hidden="true"><path d="M16.6 5.82A4.28 4.28 0 0 1 15.54 3h-3.09v12.4a2.59 2.59 0 0 1-2.59 2.5c-1.42 0-2.6-1.16-2.6-2.6 0-1.72 1.66-3.01 3.37-2.48V9.66c-3.45-.46-6.47 2.22-6.47 5.64 0 3.33 2.76 5.7 5.69 5.7 3.14 0 5.69-2.55 5.69-5.7V9.01a7.35 7.35 0 0 0 4.3 1.38V7.3s-1.88.09-3.24-1.48z"/></svg></a><a class="soc" href="https://www.youtube.com/@cobaia.dev1" target="_blank" rel="noopener" aria-label="YouTube"><svg class="ico" viewBox="0 0 24 24" fill="currentColor" aria-hidden="true"><path d="M21.6 7.2a2.5 2.5 0 0 0-1.76-1.77C18.27 5 12 5 12 5s-6.27 0-7.84.43A2.5 2.5 0 0 0 2.4 7.2 26 26 0 0 0 2 12a26 26 0 0 0 .4 4.8 2.5 2.5 0 0 0 1.76 1.77C5.73 19 12 19 12 19s6.27 0 7.84-.43a2.5 2.5 0 0 0 1.76-1.77A26 26 0 0 0 22 12a26 26 0 0 0-.4-4.8zM10 15V9l5.2 3L10 15z"/></svg></a></div><button class="cal-btn" type="button" data-open-cal aria-haspopup="dialog" aria-controls="cal"><i class="dot"></i>30 dias</button></div>
 </div></header>
 <main class="wrap">
@@ -211,7 +211,7 @@ claude</pre></div>
   </div>
 </section>
 <section class="rv" aria-labelledby="nx"><p class="eyebrow">continua a série</p><h2 id="nx">Os outros experimentos</h2><div class="next"><a class="card glass" href="../30-dias/"><span class="d">← TODOS OS DIAS</span><div class="t">O calendário</div><p>Veja os experimentos liberados até agora.</p></a><a class="card glass red" href="../humano/" data-lock-day="13"><span class="d" data-when="DIA 13 · libera às 12h">DIA 13 · palavra HUMANO →</span><div class="t">O Claude escreve sem cara de IA</div><p>O guia gratuito do Anti-Robô: o pedido que levanta os padrões de texto de IA, a skill que guarda as regras e os pedidos prontos pra escrever como gente.</p></a></div></section><div class="cta rv">
-  <span class="pf"><img src="../assets/img/avatar.jpg" alt="Foto de perfil do @cobaia.dev" width="96" height="96"></span>
+  <span class="pf"><img src="../assets/img/luis.jpg" alt="Foto de perfil do @cobaia.dev" width="96" height="96"></span>
   <h2>30 dias, <em>30 experimentos</em></h2>
   <p class="lede">Eu testo antes de você. Segue pra não perder o próximo.</p>
   <a class="stamp" href="https://www.instagram.com/cobaia.dev/" target="_blank" rel="noopener">@COBAIA.DEV</a>

diff --git a/limpar/index.html b/limpar/index.html
@@ -22,7 +22,7 @@
 <body>
 <div class="bg" aria-hidden="true"><i></i><i></i><i></i></div>
 <header class="top"><div class="bar glass">
-  <a class="brand" href="../30-dias/"><span class="pf"><img src="../assets/img/avatar.jpg" alt="" width="34" height="34"></span><span>@cobaia.dev</span></a>
+  <a class="brand" href="../30-dias/"><span class="pf"><img src="../assets/img/luis.jpg" alt="" width="34" height="34"></span><span>@cobaia.dev</span></a>
   <div class="bar-r"><div class="bar-soc"><a class="soc" href="https://www.tiktok.com/@cobaia.dev" target="_blank" rel="noopener" aria-label="TikTok"><svg class="ico" viewBox="0 0 24 24" fill="currentColor" aria-hidden="true"><path d="M16.6 5.82A4.28 4.28 0 0 1 15.54 3h-3.09v12.4a2.59 2.59 0 0 1-2.59 2.5c-1.42 0-2.6-1.16-2.6-2.6 0-1.72 1.66-3.01 3.37-2.48V9.66c-3.45-.46-6.47 2.22-6.47 5.64 0 3.33 2.76 5.7 5.69 5.7 3.14 0 5.69-2.55 5.69-5.7V9.01a7.35 7.35 0 0 0 4.3 1.38V7.3s-1.88.09-3.24-1.48z"/></svg></a><a class="soc" href="https://www.youtube.com/@cobaia.dev1" target="_blank" rel="noopener" aria-label="YouTube"><svg class="ico" viewBox="0 0 24 24" fill="currentColor" aria-hidden="true"><path d="M21.6 7.2a2.5 2.5 0 0 0-1.76-1.77C18.27 5 12 5 12 5s-6.27 0-7.84.43A2.5 2.5 0 0 0 2.4 7.2 26 26 0 0 0 2 12a26 26 0 0 0 .4 4.8 2.5 2.5 0 0 0 1.76 1.77C5.73 19 12 19 12 19s6.27 0 7.84-.43a2.5 2.5 0 0 0 1.76-1.77A26 26 0 0 0 22 12a26 26 0 0 0-.4-4.8zM10 15V9l5.2 3L10 15z"/></svg></a></div><button class="cal-btn" type="button" data-open-cal aria-haspopup="dialog" aria-controls="cal"><i class="dot"></i>30 dias</button></div>
 </div></header>
 <main class="wrap">
@@ -124,7 +124,7 @@
   </div>
 </section>
 <section class="rv" aria-labelledby="nx"><p class="eyebrow">continua a série</p><h2 id="nx">Os outros experimentos</h2><div class="next"><a class="card glass" href="../skill/"><span class="d">← DIA 03 · palavra SKILL</span><div class="t">Skill é a receita da vó</div><p>O manual pra criar a sua primeira skill no Claude e ensinar uma tarefa do seu jeito.</p></a><a class="card glass red" href="../mcp/" data-lock-day="5"><span class="d" data-when="DIA 05 · libera às 12h">DIA 05 · palavra MCP →</span><div class="t">O Claude montou meu post no Canva</div><p>Os pedidos prontos pra copiar e usar o Claude com o Canva via MCP, e o passo a passo pra ligar sem programar.</p></a></div></section><div class="cta rv">
-  <span class="pf"><img src="../assets/img/avatar.jpg" alt="Foto de perfil do @cobaia.dev" width="96" height="96"></span>
+  <span class="pf"><img src="../assets/img/luis.jpg" alt="Foto de perfil do @cobaia.dev" width="96" height="96"></span>
   <h2>30 dias, <em>30 experimentos</em></h2>
   <p class="lede">Eu testo antes de você. Segue pra não perder o próximo.</p>
   <a class="stamp" href="https://www.instagram.com/cobaia.dev/" target="_blank" rel="noopener">@COBAIA.DEV</a>

diff --git a/wifi/index.html b/wifi/index.html
@@ -22,7 +22,7 @@
 <body>
 <div class="bg" aria-hidden="true"><i></i><i></i><i></i></div>
 <header class="top"><div class="bar glass">
-  <a class="brand" href="../30-dias/"><span class="pf"><img src="../assets/img/avatar.jpg" alt="" width="34" height="34"></span><span>@cobaia.dev</span></a>
+  <a class="brand" href="../30-dias/"><span class="pf"><img src="../assets/img/luis.jpg" alt="" width="34" height="34"></span><span>@cobaia.dev</span></a>
   <div class="bar-r"><div class="bar-soc"><a class="soc" href="https://www.tiktok.com/@cobaia.dev" target="_blank" rel="noopener" aria-label="TikTok"><svg class="ico" viewBox="0 0 24 24" fill="currentColor" aria-hidden="true"><path d="M16.6 5.82A4.28 4.28 0 0 1 15.54 3h-3.09v12.4a2.59 2.59 0 0 1-2.59 2.5c-1.42 0-2.6-1.16-2.6-2.6 0-1.72 1.66-3.01 3.37-2.48V9.66c-3.45-.46-6.47 2.22-6.47 5.64 0 3.33 2.76 5.7 5.69 5.7 3.14 0 5.69-2.55 5.69-5.7V9.01a7.35 7.35 0 0 0 4.3 1.38V7.3s-1.88.09-3.24-1.48z"/></svg></a><a class="soc" href="https://www.youtube.com/@cobaia.dev1" target="_blank" rel="noopener" aria-label="YouTube"><svg class="ico" viewBox="0 0 24 24" fill="currentColor" aria-hidden="true"><path d="M21.6 7.2a2.5 2.5 0 0 0-1.76-1.77C18.27 5 12 5 12 5s-6.27 0-7.84.43A2.5 2.5 0 0 0 2.4 7.2 26 26 0 0 0 2 12a26 26 0 0 0 .4 4.8 2.5 2.5 0 0 0 1.76 1.77C5.73 19 12 19 12 19s6.27 0 7.84-.43a2.5 2.5 0 0 0 1.76-1.77A26 26 0 0 0 22 12a26 26 0 0 0-.4-4.8zM10 15V9l5.2 3L10 15z"/></svg></a></div><button class="cal-btn" type="button" data-open-cal aria-haspopup="dialog" aria-controls="cal"><i class="dot"></i>30 dias</button></div>
 </div></header>
 <main class="wrap">
@@ -167,7 +167,7 @@
   </div>
 </section>
 <section class="rv" aria-labelledby="nx"><p class="eyebrow">continua a série</p><h2 id="nx">Os outros experimentos</h2><div class="next"><a class="card glass" href="../professor/"><span class="d">← DIA 09 · palavra PROFESSOR</span><div class="t">O Claude virou meu professor particular</div><p>O passo a passo pra instalar o LearnHarness, ligar no Claude e estudar pro Enem com um professor que te testa, ensina e lembra o que revisar.</p></a><div class="card glass red locked"><span class="d">DIA 11 · em breve</span><div class="t">Próximo experimento</div><p>Sai às 12h. Segue o @cobaia.dev pra ver primeiro.</p></div></div></section><div class="cta rv">
-  <span class="pf"><img src="../assets/img/avatar.jpg" alt="Foto de perfil do @cobaia.dev" width="96" height="96"></span>
+  <span class="pf"><img src="../assets/img/luis.jpg" alt="Foto de perfil do @cobaia.dev" width="96" height="96"></span>
   <h2>30 dias, <em>30 experimentos</em></h2>
   <p class="lede">Eu testo antes de você. Segue pra não perder o próximo.</p>
   <a class="stamp" href="https://www.instagram.com/cobaia.dev/" target="_blank" rel="noopener">@COBAIA.DEV</a>

diff --git a/notebook/index.html b/notebook/index.html
@@ -22,8 +22,8 @@
 <body>
 <div class="glow" aria-hidden="true"></div>
 
-<header class="top"><div class="wrap"><div class="bar glass">
-  <a class="brand" href="../30-dias/"><img src="../assets/img/avatar.jpg" alt="" width="30" height="30"><span>@cobaia.dev</span></a>
+<header class="top"><a class="promo" id="promo-top" href="#planos"><span>🔥 Preço de lançamento acaba em</span> <b data-top>--</b></a><div class="wrap"><div class="bar glass">
+  <a class="brand" href="../30-dias/"><img src="../assets/img/luis.jpg" alt="" width="30" height="30"><span>@cobaia.dev</span></a>
   <a class="btn" href="#prova">Ver o antes e depois</a>
 </div></div></header>
 
@@ -161,7 +161,7 @@
 <!-- 9. QUEM -->
 <section aria-labelledby="h-quem" style="padding-top:20px"><div class="wrap">
   <div class="glass card" style="display:flex;gap:22px;align-items:center;flex-wrap:wrap">
-    <img src="../assets/img/avatar.jpg" alt="" width="84" height="84" style="border-radius:50%;flex:0 0 84px">
+    <img src="../assets/img/luis.jpg" alt="" width="84" height="84" style="border-radius:50%;flex:0 0 84px">
     <div style="flex:1;min-width:240px">
       <p class="eyebrow" style="margin-bottom:6px">quem fez</p>
       <h2 id="h-quem" style="font-size:clamp(24px,3vw,32px);margin-bottom:8px">Eu sou o Luis, do @cobaia.dev.</h2>
@@ -357,6 +357,7 @@
     var r = FIM - Date.now();
     if (r <= 0) {
       t.style.display = 'none';
+      document.getElementById('promo-top').style.display = 'none';
       document.getElementById('promo-txt').textContent = 'Preço normal.';
       precos(true);
       return;
@@ -366,6 +367,8 @@
     t.querySelector('[data-t=h]').textContent = Math.floor(s%86400/3600);
     t.querySelector('[data-t=m]').textContent = Math.floor(s%3600/60);
     t.querySelector('[data-t=s]').textContent = s%60;
+    var z = function(x){ return (x < 10 ? '0' : '') + x; };
+    document.querySelector('[data-top]').textContent = Math.floor(s/86400) + 'd ' + z(Math.floor(s%86400/3600)) + 'h ' + z(Math.floor(s%3600/60)) + 'm ' + z(s%60) + 's';
     setTimeout(tick, 1000);
   }
   tick();
